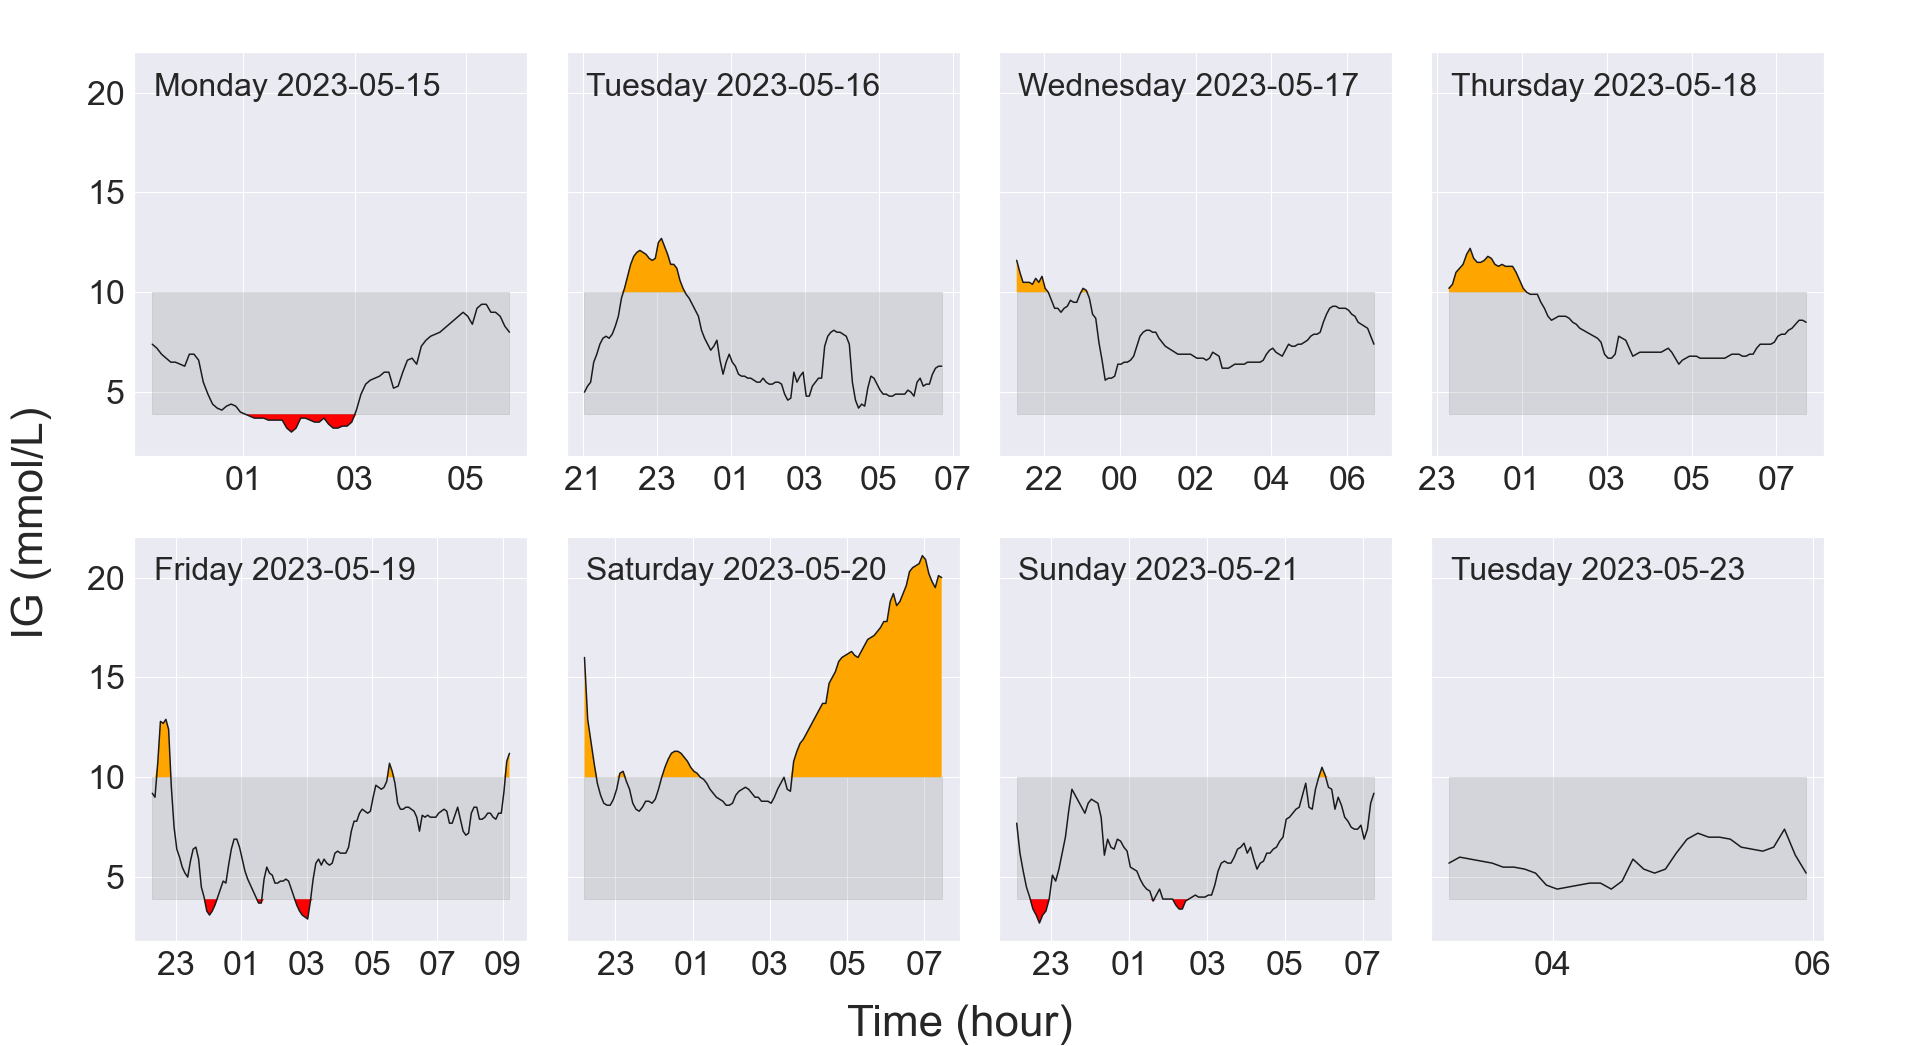
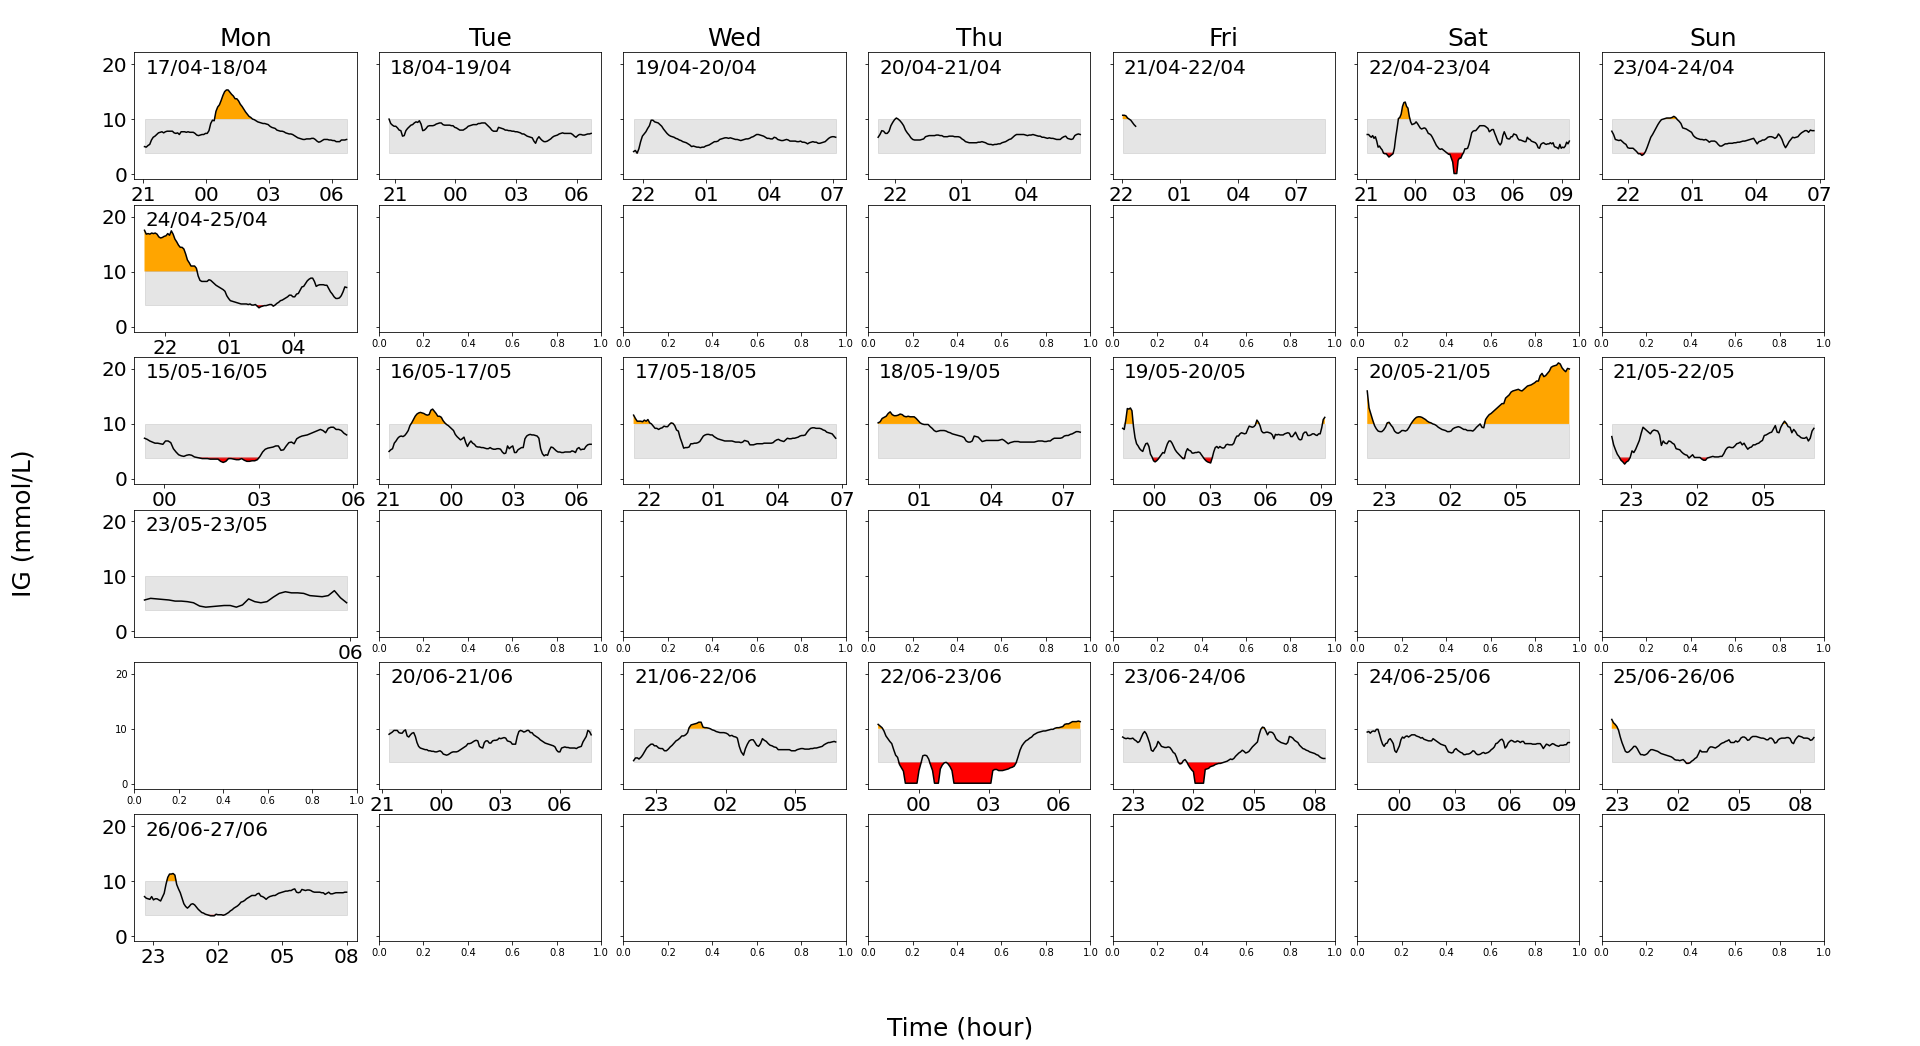
plots all 3 sessions of CGM in one figure

diff --git a/PlotWeeklyTest.py b/PlotWeeklyTest.py
@@ -1,0 +1,156 @@
+""" 
+
+Created on Thu Oct  5 09:58:48 2023 
+  
+@author: ltei0004 
+
+""" 
+
+import os 
+import pandas as pd 
+import numpy as np 
+import matplotlib.pyplot as plt  
+from ExtractIntervals import * 
+import matplotlib.dates as mdates 
+ 
+# Set the base directory where your files are located 
+base_dir = r"L:\LovbeskyttetMapper01\StenoSleepQCGM\MindYourDiabetes" 
+
+# List of sessions
+sessions = ["Baseline", "Second", "Third"]
+
+# Empty lists of CGM data and summed data
+CGM_data_list = []
+summed_data_list = []
+
+# Iterate over all sessions
+for session in sessions:
+    # Path to files
+    in_dir = os.path.join(base_dir, "Fam01", session) 
+
+    # Read CGM data 
+    CGM_filename = "cgm_data_processed" 
+    CGM_file_path = os.path.join(in_dir, CGM_filename + '.csv') 
+    CGM_data = pd.read_csv(CGM_file_path, parse_dates=['DateTime'], dayfirst=True) 
+    CGM_data_list.append(CGM_data)
+
+    # Read summed actigraphy data 
+    summed_filename = "sum_fam_processed" 
+    summed_file_path = os.path.join(in_dir, summed_filename + '.csv') 
+    summed_data = pd.read_csv(summed_file_path, parse_dates=[12, 13, 14], dayfirst=True) 
+    summed_data_list.append(summed_data)
+
+# Merge all sessions 
+CGM_data_all = pd.concat((CGM_data_list[0],CGM_data_list[1],CGM_data_list[2]))
+summed_data_all = pd.concat((summed_data_list[0],summed_data_list[1],summed_data_list[2]))
+
+# Check what weekday the sessions starts on
+weekday_start_baseline = summed_data_list[0].iloc[0]['In Bed DateTime'].weekday()
+weekday_start_second = summed_data_list[1].iloc[0]['In Bed DateTime'].weekday()
+weekday_start_third = summed_data_list[2].iloc[0]['In Bed DateTime'].weekday()
+
+# Check number of days in each session
+num_days_baseline = summed_data_list[0].shape[0]
+num_days_second = summed_data_list[1].shape[0]
+num_days_third = summed_data_list[2].shape[0]
+# Total number of days
+num_days_total = num_days_baseline + num_days_second + num_days_third
+
+# Number of rows and columns in figure
+#nrows = math.ceil(num_days_total/7) 
+nrows = 6
+ncols = 7
+
+# Create subplots in figure
+fig, axs = plt.subplots(nrows=nrows, ncols=ncols, sharey=True, figsize=[15, 6]) 
+
+# Remove excess axes 
+# for i in range(6): 
+#     axs[1, 1 + i].set_axis_off() 
+
+# # Set weekday titles 
+weekdays = ['Mon', 'Tue', 'Wed', 'Thu', 'Fri', 'Sat', 'Sun'] 
+for i in range(7): 
+    axs[0, i].set_title(weekdays[i], fontsize=25) 
+
+# Limits 
+upper_lim = 10.0 
+lower_lim = 3.9 
+EPS = 0.01  # Set such that limit range covers correctly 
+
+# Starting row and column in subplot
+col = 0
+row = 0
+
+# Loop through all relevant nights 
+for i in range(num_days_total): 
+    
+    # Extract In Bed and Out Bed times 
+    in_bed = summed_data_all.iloc[i]['In Bed DateTime'] 
+    out_bed = summed_data_all.iloc[i]['Out Bed DateTime'] 
+     
+    # Extract one night's worth of CGM data 
+    night_data = extract_one_night(in_bed, out_bed, CGM_data_all) 
+    data = night_data['CGM'] 
+    ts = night_data['DateTime'] 
+    
+    # Check if col and/or row need to be changed depending on the start of each session:
+    if i==0: # start of Baseline (session 1)
+        col = weekday_start_baseline
+    elif i==num_days_baseline: # start of Second (session 2)
+        col = weekday_start_second
+        row += 1
+    elif i==(num_days_baseline + num_days_second): # start of Third (session 3)
+        col = weekday_start_third
+        row += 1
+
+    # Insert dates 
+    date_start = in_bed.strftime('%d/%m') 
+    date_end = out_bed.strftime('-%d/%m') 
+    axs[row, col].text(.05, .95, str(date_start + date_end), ha='left', va='top', transform=axs[row, col].transAxes, fontsize=20)   
+
+    # Format the x-axis ticks  
+    axs[row,col].xaxis.set_major_formatter(mdates.DateFormatter('%H'))  
+    # Set the interval for x-axis ticks  
+    axs[row,col].xaxis.set_major_locator(mdates.HourLocator(interval=3)) 
+    # Set the fontsize of the x- and y-axis ticks 
+    axs[row, col].tick_params(axis='x', labelsize=20,) 
+    axs[row, col].tick_params(axis='y', labelsize=20) 
+
+    # Plot CGM_data 
+    axs[row, col].plot(ts, data, color='k') 
+
+    # Fill beyond limits 
+    axs[row, col].fill_between(ts, upper_lim, np.maximum(data, upper_lim), color='orange', edgecolor='none') 
+    axs[row, col].fill_between(ts, lower_lim, np.minimum(data, lower_lim), color='red', edgecolor='none') 
+
+    # Fill limits 
+    axs[row, col].fill_between(ts, upper_lim + EPS, lower_lim - EPS, color='grey', alpha=0.2) 
+    
+    # Check if row needs to be changed
+    if col == 6:
+        row += 1
+    
+    # Check if col needs to be changed
+    if col != 6:    
+        col += 1
+    else:
+        col = 0
+    
+
+# Get space between subplots 
+fig.subplots_adjust(left=0.07, right=0.95, top=0.95, bottom=0.1, wspace=0.1, hspace=0.2) 
+
+# Add figure-level labels with adjusted coordinates 
+fig.text(0.5, 0.01, 'Time (hour)', ha='center', fontsize=25)   
+fig.text(0.006, 0.5, 'IG (mmol/L)', va='center', fontsize=25, rotation=90)   
+
+# Necessary for getting a good saved image
+plt.get_current_fig_manager().full_screen_toggle()   
+
+# Save plot 
+plt.savefig("H:\GitHub\Bachelor\Plots\weeklyCGMPlot.png", format="png")   
+
+# Display 
+plt.show()  
+ 
